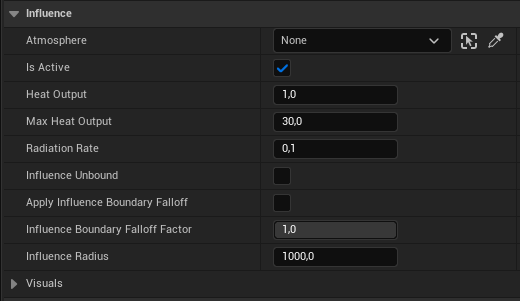
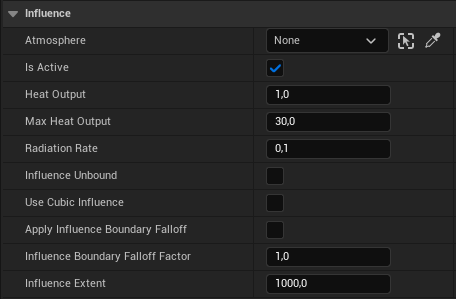
chore(docs): refresh docs

diff --git a/site/aero-sim/influencers/index.html b/site/aero-sim/influencers/index.html
@@ -972,6 +972,11 @@
 </thead>
 <tbody>
 <tr>
+<td>Atmosphere</td>
+<td>Atmosphere Actor</td>
+<td>The atmosphere the influence actor should be assigned to.</td>
+</tr>
+<tr>
 <td>Is Active</td>
 <td>Boolean</td>
 <td>Activates or deactivates the atmospheric influence.</td>
@@ -987,7 +992,22 @@
 <td>If true, the influence is always active, regardless of distance.</td>
 </tr>
 <tr>
-<td>Influence Radius</td>
+<td>Use Cubic Influence</td>
+<td>Boolean</td>
+<td>If true, calculations regarding influence will be based on a cubic shape, with the 'ApplyInfluenceBoundaryFalloff' option disabled.</td>
+</tr>
+<tr>
+<td>Apply Influence Boundary Falloff</td>
+<td>Boolean</td>
+<td>This environmental value dynamically decreases or increases based on the measured location and its distance from the actor's center.</td>
+</tr>
+<tr>
+<td>Influence Boundary Falloff Factor</td>
+<td>Float</td>
+<td>Determines the rate at which the influence effects decrease towards the outer boundary. Higher values result in a sharper decrease.</td>
+</tr>
+<tr>
+<td>Influence Extent</td>
 <td>Float</td>
 <td>Radius within which the influence is effective.</td>
 </tr>
@@ -1004,6 +1024,11 @@
 </tr>
 </thead>
 <tbody>
+<tr>
+<td>Atmosphere</td>
+<td>Atmosphere Actor</td>
+<td>The atmosphere the influence actor should be assigned to.</td>
+</tr>
 <tr>
 <td>Is Active</td>
 <td>Boolean</td>
@@ -1030,7 +1055,22 @@
 <td>If true, the influence is always active, regardless of distance.</td>
 </tr>
 <tr>
-<td>Influence Radius</td>
+<td>Use Cubic Influence</td>
+<td>Boolean</td>
+<td>If true, calculations regarding influence will be based on a cubic shape, with the 'ApplyInfluenceBoundaryFalloff' option disabled.</td>
+</tr>
+<tr>
+<td>Apply Influence Boundary Falloff</td>
+<td>Boolean</td>
+<td>This environmental value dynamically decreases or increases based on the measured location and its distance from the actor's center.</td>
+</tr>
+<tr>
+<td>Influence Boundary Falloff Factor</td>
+<td>Float</td>
+<td>Determines the rate at which the influence effects decrease towards the outer boundary. Higher values result in a sharper decrease.</td>
+</tr>
+<tr>
+<td>Influence Extent</td>
 <td>Float</td>
 <td>Radius within which the influence is effective.</td>
 </tr>
@@ -1047,6 +1087,11 @@
 </tr>
 </thead>
 <tbody>
+<tr>
+<td>Atmosphere</td>
+<td>Atmosphere Actor</td>
+<td>The atmosphere the influence actor should be assigned to.</td>
+</tr>
 <tr>
 <td>Is Active</td>
 <td>Boolean</td>
@@ -1073,7 +1118,22 @@
 <td>If true, the influence is always active, regardless of distance.</td>
 </tr>
 <tr>
-<td>Influence Radius</td>
+<td>Use Cubic Influence</td>
+<td>Boolean</td>
+<td>If true, calculations regarding influence will be based on a cubic shape, with the 'ApplyInfluenceBoundaryFalloff' option disabled.</td>
+</tr>
+<tr>
+<td>Apply Influence Boundary Falloff</td>
+<td>Boolean</td>
+<td>This environmental value dynamically decreases or increases based on the measured location and its distance from the actor's center.</td>
+</tr>
+<tr>
+<td>Influence Boundary Falloff Factor</td>
+<td>Float</td>
+<td>Determines the rate at which the influence effects decrease towards the outer boundary. Higher values result in a sharper decrease.</td>
+</tr>
+<tr>
+<td>Influence Extent</td>
 <td>Float</td>
 <td>Radius within which the influence is effective.</td>
 </tr>
@@ -1090,6 +1150,11 @@
 </tr>
 </thead>
 <tbody>
+<tr>
+<td>Atmosphere</td>
+<td>Atmosphere Actor</td>
+<td>The atmosphere the influence actor should be assigned to.</td>
+</tr>
 <tr>
 <td>Is Active</td>
 <td>Boolean</td>
@@ -1116,7 +1181,22 @@
 <td>If true, the influence is always active, regardless of distance.</td>
 </tr>
 <tr>
-<td>Influence Radius</td>
+<td>Use Cubic Influence</td>
+<td>Boolean</td>
+<td>If true, calculations regarding influence will be based on a cubic shape, with the 'ApplyInfluenceBoundaryFalloff' option disabled.</td>
+</tr>
+<tr>
+<td>Apply Influence Boundary Falloff</td>
+<td>Boolean</td>
+<td>This environmental value dynamically decreases or increases based on the measured location and its distance from the actor's center.</td>
+</tr>
+<tr>
+<td>Influence Boundary Falloff Factor</td>
+<td>Float</td>
+<td>Determines the rate at which the influence effects decrease towards the outer boundary. Higher values result in a sharper decrease.</td>
+</tr>
+<tr>
+<td>Influence Extent</td>
 <td>Float</td>
 <td>Radius within which the influence is effective.</td>
 </tr>
@@ -1133,6 +1213,11 @@
 </tr>
 </thead>
 <tbody>
+<tr>
+<td>Atmosphere</td>
+<td>Atmosphere Actor</td>
+<td>The atmosphere the influence actor should be assigned to.</td>
+</tr>
 <tr>
 <td>Is Active</td>
 <td>Boolean</td>
@@ -1159,7 +1244,22 @@
 <td>If true, the influence is always active, regardless of distance.</td>
 </tr>
 <tr>
-<td>Influence Radius</td>
+<td>Use Cubic Influence</td>
+<td>Boolean</td>
+<td>If true, calculations regarding influence will be based on a cubic shape, with the 'ApplyInfluenceBoundaryFalloff' option disabled.</td>
+</tr>
+<tr>
+<td>Apply Influence Boundary Falloff</td>
+<td>Boolean</td>
+<td>This environmental value dynamically decreases or increases based on the measured location and its distance from the actor's center.</td>
+</tr>
+<tr>
+<td>Influence Boundary Falloff Factor</td>
+<td>Float</td>
+<td>Determines the rate at which the influence effects decrease towards the outer boundary. Higher values result in a sharper decrease.</td>
+</tr>
+<tr>
+<td>Influence Extent</td>
 <td>Float</td>
 <td>Radius within which the influence is effective.</td>
 </tr>
@@ -1177,6 +1277,11 @@
 </thead>
 <tbody>
 <tr>
+<td>Atmosphere</td>
+<td>Atmosphere Actor</td>
+<td>The atmosphere the influence actor should be assigned to.</td>
+</tr>
+<tr>
 <td>Is Active</td>
 <td>Boolean</td>
 <td>Activates or deactivates the atmospheric influence.</td>
@@ -1192,7 +1297,22 @@
 <td>If true, the influence is always active, regardless of distance.</td>
 </tr>
 <tr>
-<td>Influence Radius</td>
+<td>Use Cubic Influence</td>
+<td>Boolean</td>
+<td>If true, calculations regarding influence will be based on a cubic shape, with the 'ApplyInfluenceBoundaryFalloff' option disabled.</td>
+</tr>
+<tr>
+<td>Apply Influence Boundary Falloff</td>
+<td>Boolean</td>
+<td>This environmental value dynamically decreases or increases based on the measured location and its distance from the actor's center.</td>
+</tr>
+<tr>
+<td>Influence Boundary Falloff Factor</td>
+<td>Float</td>
+<td>Determines the rate at which the influence effects decrease towards the outer boundary. Higher values result in a sharper decrease.</td>
+</tr>
+<tr>
+<td>Influence Extent</td>
 <td>Float</td>
 <td>Radius within which the influence is effective.</td>
 </tr>
@@ -1238,7 +1358,7 @@
 <tr>
 <td>Indicator Color</td>
 <td>FLinearColor</td>
-<td>Color of the indicator for the influence radius.</td>
+<td>Color of the indicator for the Influence Extent.</td>
 </tr>
 </tbody>
 </table>

diff --git a/site/aero-sim/atmosphere/index.html b/site/aero-sim/atmosphere/index.html
@@ -1105,6 +1105,11 @@
 <td>If true, the influence is always active, regardless of distance.</td>
 </tr>
 <tr>
+<td>Use Cubic Influence</td>
+<td>Boolean</td>
+<td>If true, calculations regarding influence will be based on a cubic shape, with the 'ApplyInfluenceBoundaryFalloff' option disabled.</td>
+</tr>
+<tr>
 <td>Influence Radius</td>
 <td>Float</td>
 <td>This parameter defines the spatial extent of the atmospheric region, specifying the maximum distance from the central point or source within which atmospheric effects are applied.</td>
@@ -1229,6 +1234,11 @@
 </tr>
 </thead>
 <tbody>
+<tr>
+<td>Pressure</td>
+<td>Float</td>
+<td>Base pressure applied to the atmosphere.</td>
+</tr>
 <tr>
 <td>Pressure Cap</td>
 <td>Float</td>

diff --git a/site/aero-sim/gases/index.html b/site/aero-sim/gases/index.html
@@ -886,7 +886,7 @@
 
 
 <h1 id="gas-types">Gas Types<a class="headerlink" href="#gas-types" title="Permanent link">&para;</a></h1>
-<p>I gathered these values from online sources, so they might be a bit different from the exact real-world numbers. For my calculations, I've chosen to use only the boiling point to reflect how temperature affects the state of gases.</p>
+<p>The following values were gathered from the internet, so they might be a bit different from the exact real-world numbers. For my calculations, I use only the boiling point to reflect how temperature affects the state of gases.</p>
 <table>
 <thead>
 <tr>
